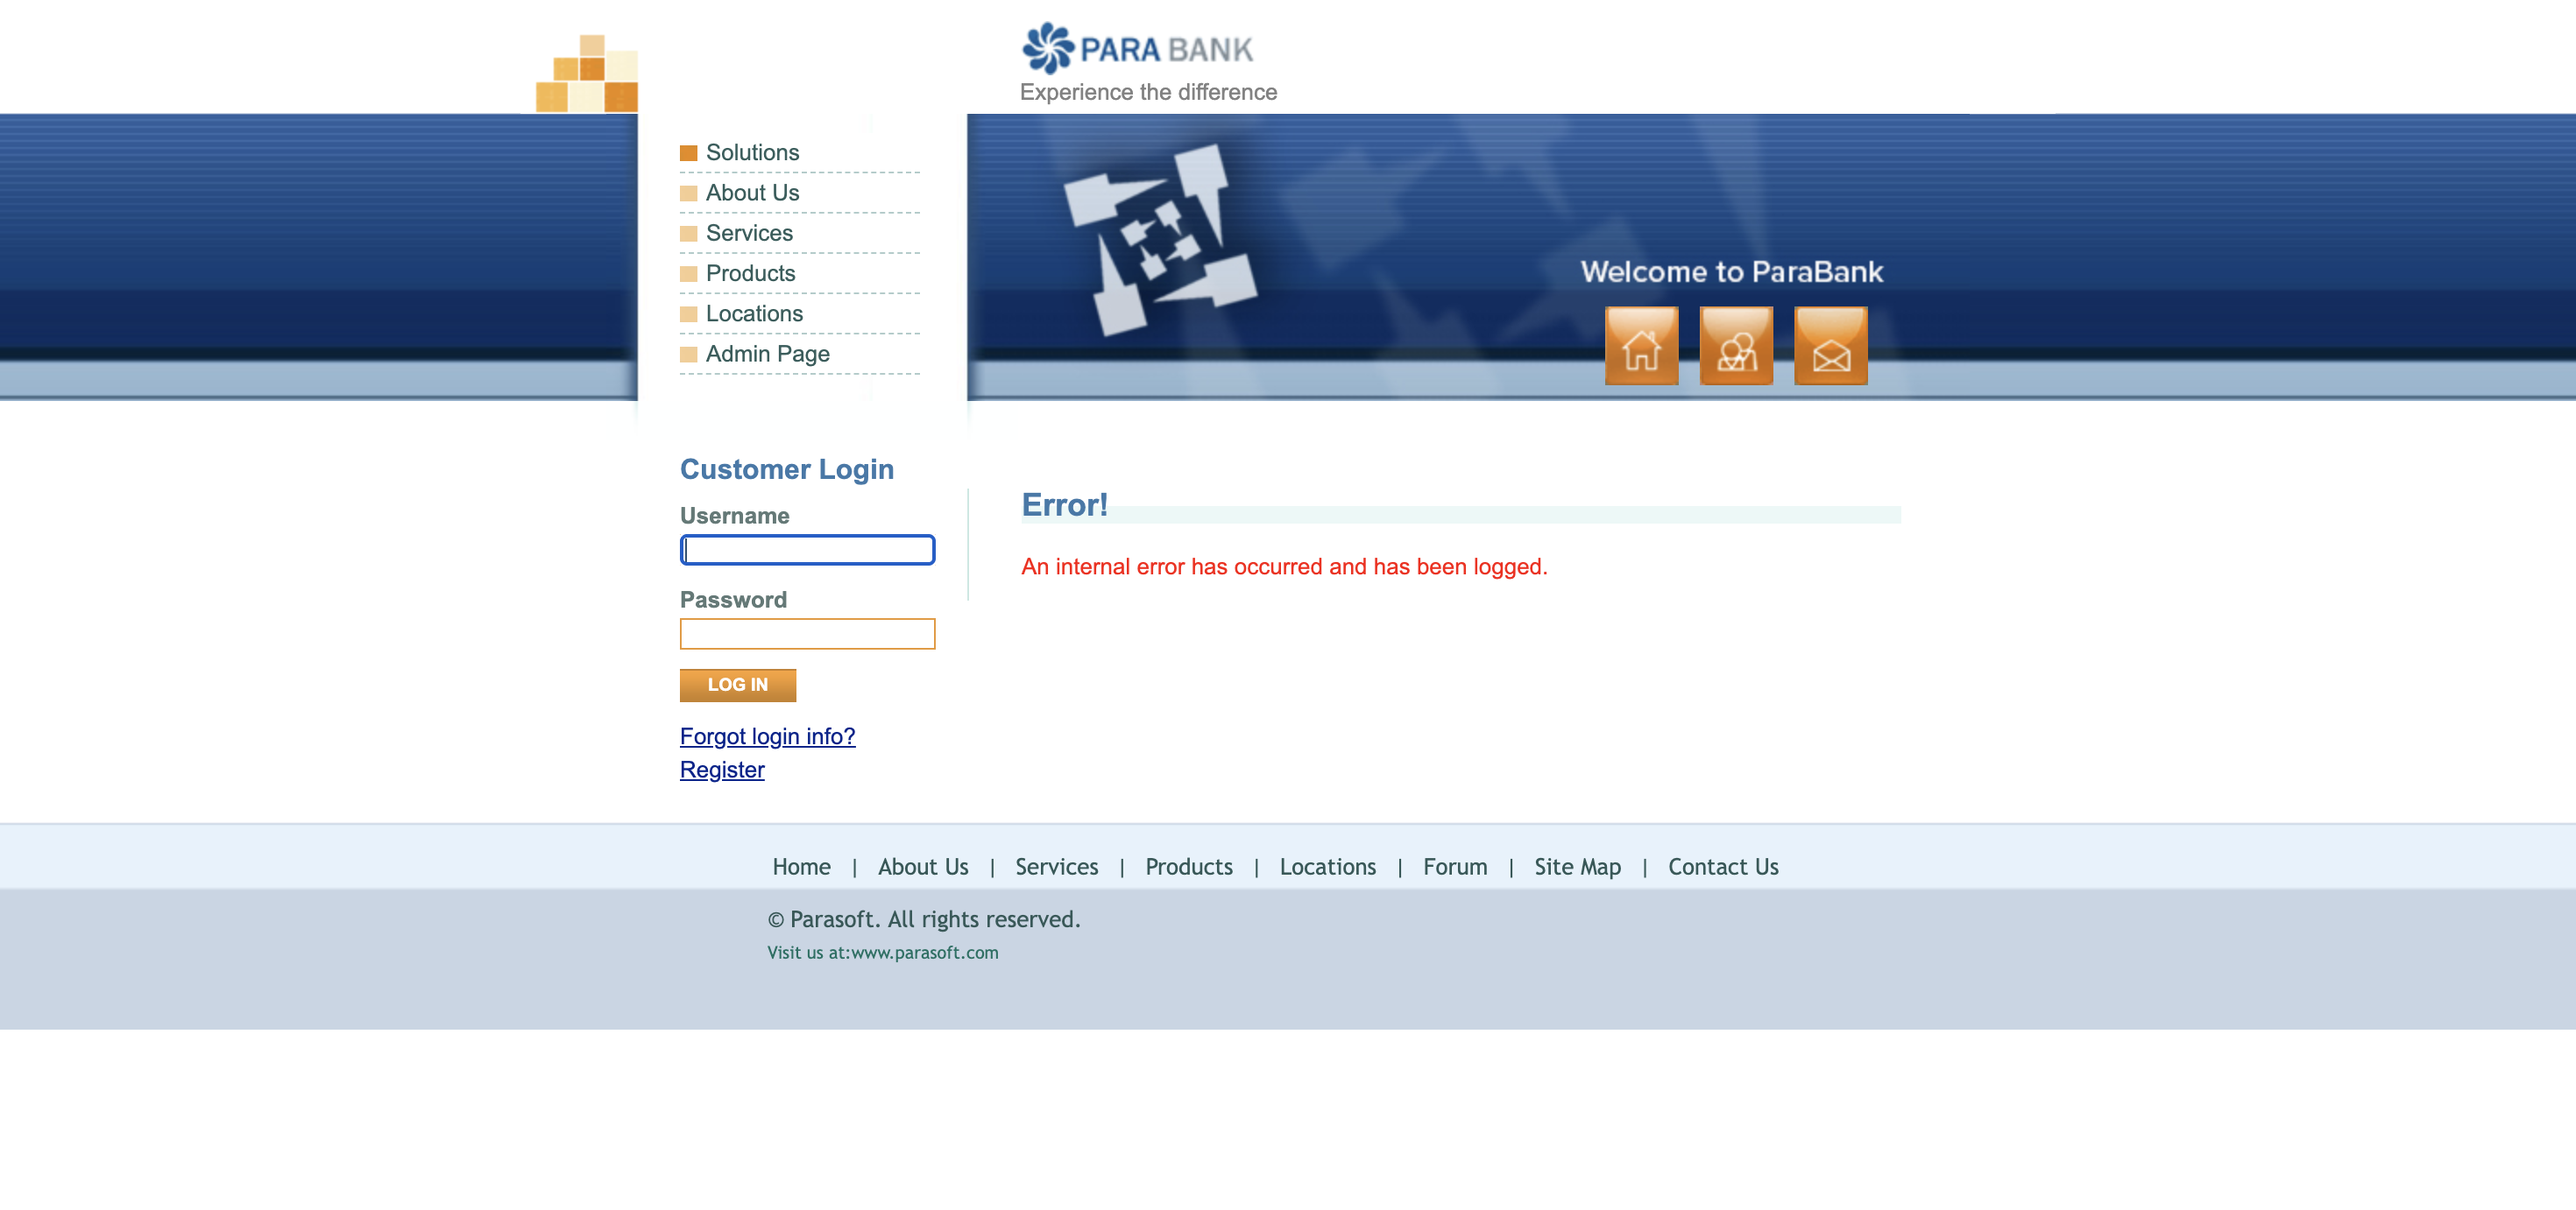
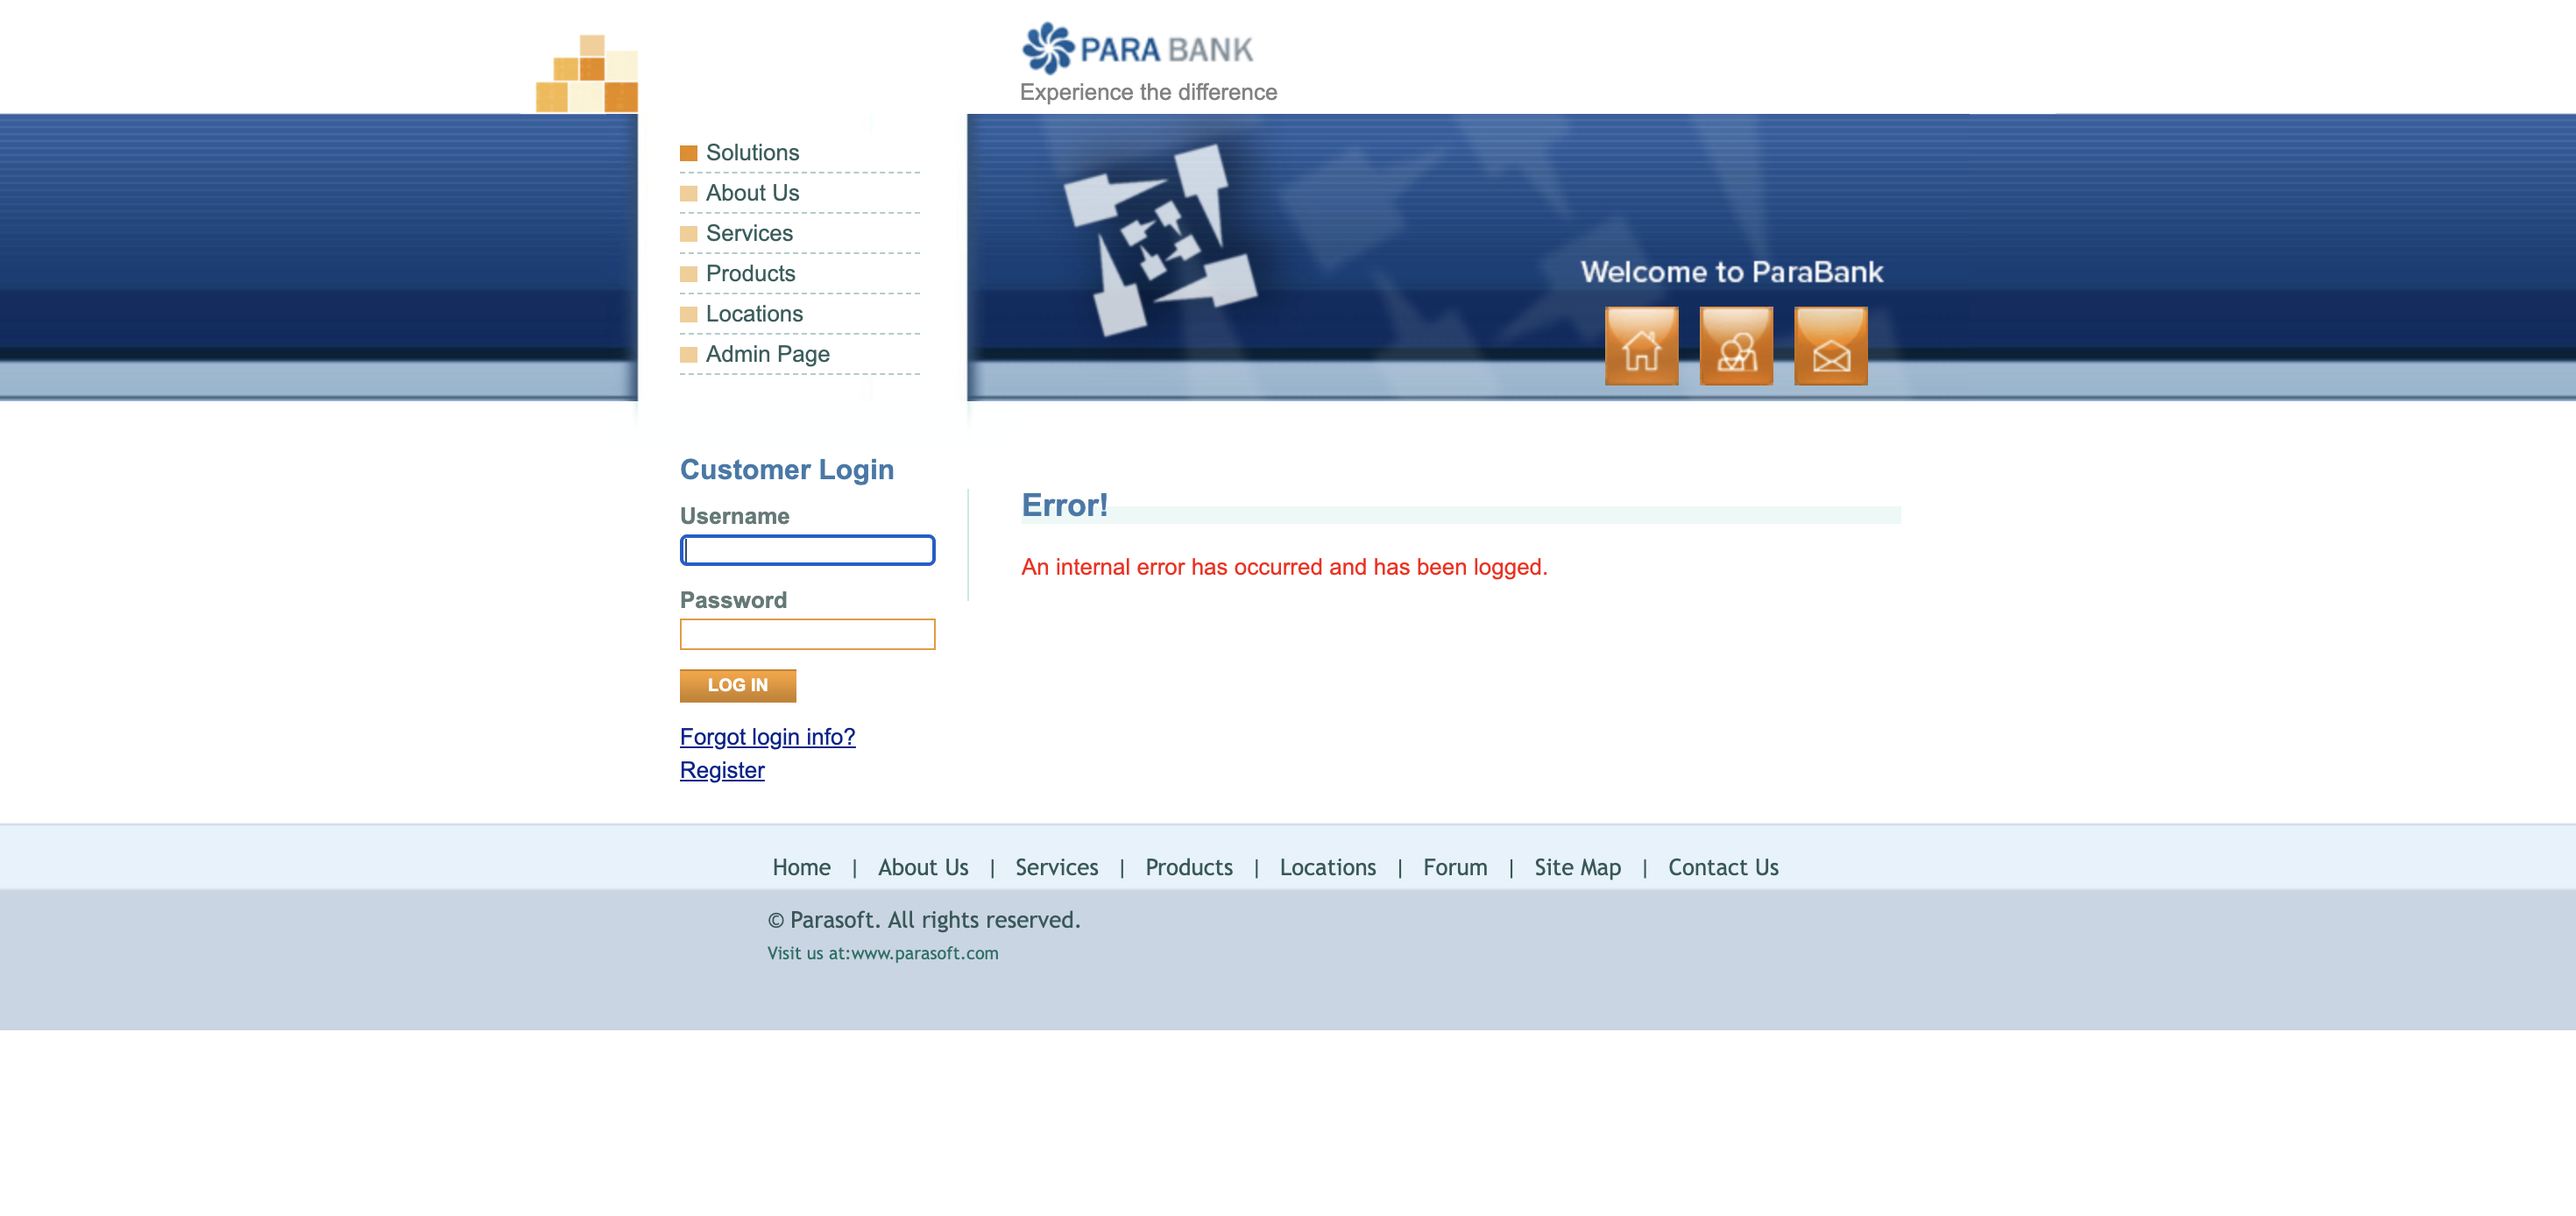
i

diff --git a/parabank-automation-framework/test-output/index.html b/parabank-automation-framework/test-output/index.html
@@ -169,7 +169,7 @@
         </div> <!-- panel Default_suite -->
         <div panel-name="test-xml-Default_suite" class="panel">
           <div class="main-panel-header rounded-window-top">
-            <span class="header-content">/private/var/folders/bx/5btdglgx3kz3y5kv3pd1w1_00000gn/T/testng-eclipse--1073485102/testng-customsuite.xml</span>
+            <span class="header-content">/private/var/folders/bx/5btdglgx3kz3y5kv3pd1w1_00000gn/T/testng-eclipse--1495255632/testng-customsuite.xml</span>
           </div> <!-- main-panel-header rounded-window-top -->
           <div class="main-panel-content rounded-window-bottom">
             <pre>
@@ -222,12 +222,12 @@ data.addRows(1);
 data.setCell(0, 0, 0)
 data.setCell(0, 1, 'loginTest')
 data.setCell(0, 2, 'Tests.LoginTest')
-data.setCell(0, 3, 1124);
+data.setCell(0, 3, 833);
 window.suiteTableData['Default_suite']= { tableData: data, tableDiv: 'times-div-Default_suite'}
 return data;
 }
               </script>
-              <span class="suite-total-time">Total running time: 1 seconds</span>
+              <span class="suite-total-time">Total running time: 833 ms</span>
               <div id="times-div-Default_suite">
               </div> <!-- times-div-Default_suite -->
             </div> <!-- times-div -->
@@ -260,17 +260,17 @@ return data;
               </div> <!-- configuration-suite before -->
               <div class="configuration-method before">
                 <span class="method-name">setup</span>
-                <span class="method-start">6221 ms</span>
+                <span class="method-start">9665 ms</span>
               </div> <!-- configuration-method before -->
               <div class="test-method">
                 <img src="failed.png">
                 </img>
                 <span class="method-name">loginTest</span>
-                <span class="method-start">11202 ms</span>
+                <span class="method-start">12580 ms</span>
               </div> <!-- test-method -->
               <div class="configuration-method after">
                 <span class="method-name">tearDown([TestResult name=loginTest status=FAILURE method=LoginTest.loginTest()[pri:0, instance:Tests.LoginTe...)</span>
-                <span class="method-start">12330 ms</span>
+                <span class="method-start">13418 ms</span>
               </div> <!-- configuration-method after -->
           </div> <!-- main-panel-content rounded-window-bottom -->
         </div> <!-- panel -->

diff --git a/parabank-automation-framework/test-output/emailable-report.html b/parabank-automation-framework/test-output/emailable-report.html
@@ -9,9 +9,9 @@
 <table>
 <tr><th>Test</th><th># Passed</th><th># Skipped</th><th># Retried</th><th># Failed</th><th>Time (ms)</th><th>Included Groups</th><th>Excluded Groups</th></tr>
 <tr><th colspan="8">Default suite</th></tr>
-<tr><td><a href="#t0">Default test</a></td><td class="num">0</td><td class="num">0</td><td class="num">0</td><td class="num attn">1</td><td class="num">6,359</td><td></td><td></td></tr>
+<tr><td><a href="#t0">Default test</a></td><td class="num">0</td><td class="num">0</td><td class="num">0</td><td class="num attn">1</td><td class="num">4,035</td><td></td><td></td></tr>
 </table>
-<table id='summary'><thead><tr><th>Class</th><th>Method</th><th>Start</th><th>Time (ms)</th></tr></thead><tbody><tr><th colspan="4">Default suite</th></tr></tbody><tbody id="t0"><tr><th colspan="4">Default test &#8212; failed</th></tr><tr class="failedeven"><td rowspan="1">Tests.LoginTest</td><td><a href="#m0">loginTest</a></td><td rowspan="1">1780730368845</td><td rowspan="1">1124</td></tr></tbody>
+<table id='summary'><thead><tr><th>Class</th><th>Method</th><th>Start</th><th>Time (ms)</th></tr></thead><tbody><tr><th colspan="4">Default suite</th></tr></tbody><tbody id="t0"><tr><th colspan="4">Default test &#8212; failed</th></tr><tr class="failedeven"><td rowspan="1">Tests.LoginTest</td><td><a href="#m0">loginTest</a></td><td rowspan="1">1780737369542</td><td rowspan="1">833</td></tr></tbody>
 </table>
 <h2>Default test</h2><h3 id="m0">Tests.LoginTest#loginTest</h3><table class="result"><tr><th>Exception</th></tr><tr><td><div class="stacktrace">java.lang.AssertionError: Login Failed expected [true] but found [false]
 	at org.testng.Assert.fail(Assert.java:111)

diff --git a/parabank-automation-framework/test-output/Default suite/Default test.html b/parabank-automation-framework/test-output/Default suite/Default test.html
@@ -57,9 +57,9 @@ function toggleAllBoxes() {
 <tr>
 <td>Tests passed/Failed/Skipped:</td><td>0/1/0</td>
 </tr><tr>
-<td>Started on:</td><td>Sat Jun 06 12:49:23 IST 2026</td>
+<td>Started on:</td><td>Sat Jun 06 14:46:06 IST 2026</td>
 </tr>
-<tr><td>Total time:</td><td>6 seconds (6359 ms)</td>
+<tr><td>Total time:</td><td>4 seconds (4035 ms)</td>
 </tr><tr>
 <td>Included groups:</td><td></td>
 </tr><tr>
@@ -141,7 +141,7 @@ function toggleAllBoxes() {
 	at org.testng.remote.RemoteTestNG.initAndRun(RemoteTestNG.java:293)
 	at org.testng.remote.RemoteTestNG.main(RemoteTestNG.java:91)
 </pre></div></td>
-<td>1</td>
+<td>0</td>
 <td>Tests.LoginTest@2767e23c</td></tr>
 </table><p>
 </body>

diff --git a/parabank-automation-framework/src/test/java/Utils/ConfigReader.java b/parabank-automation-framework/src/test/java/Utils/ConfigReader.java
@@ -44,4 +44,9 @@ public class ConfigReader {
 
         return prop.getProperty("password");
     }
+
+    public String getExecution() {
+
+        return prop.getProperty("execution");
+    }
 }
